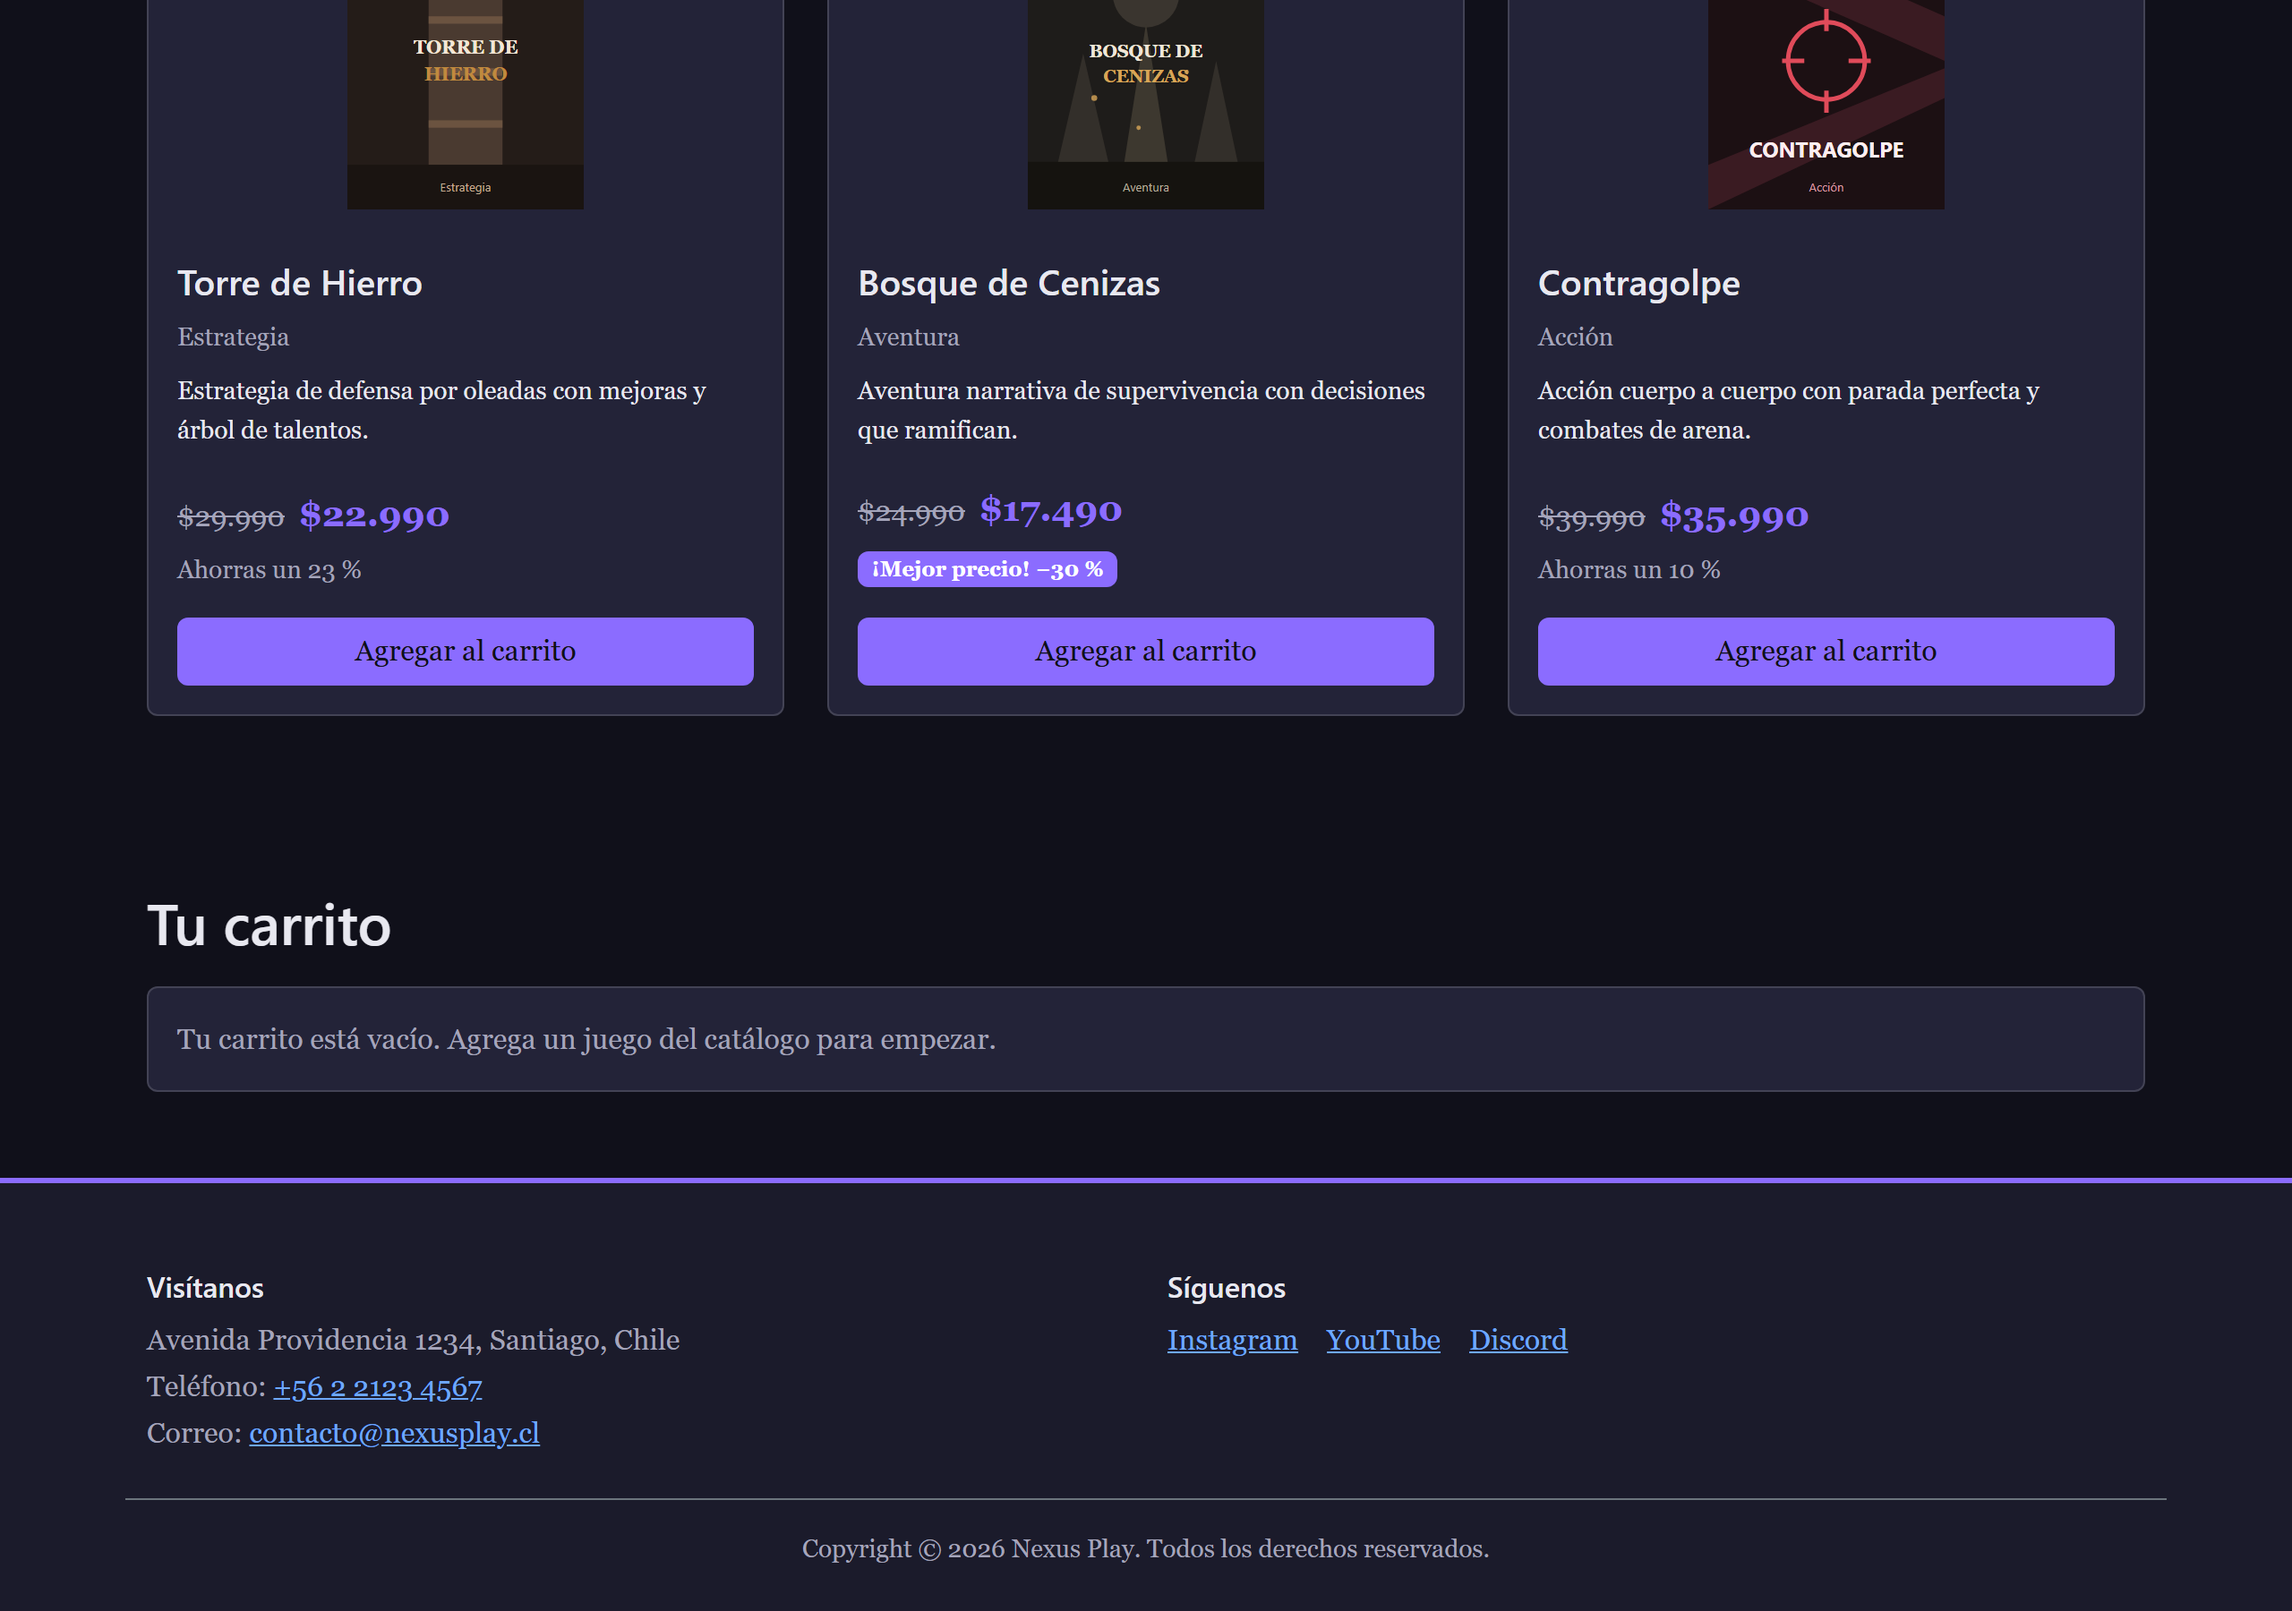
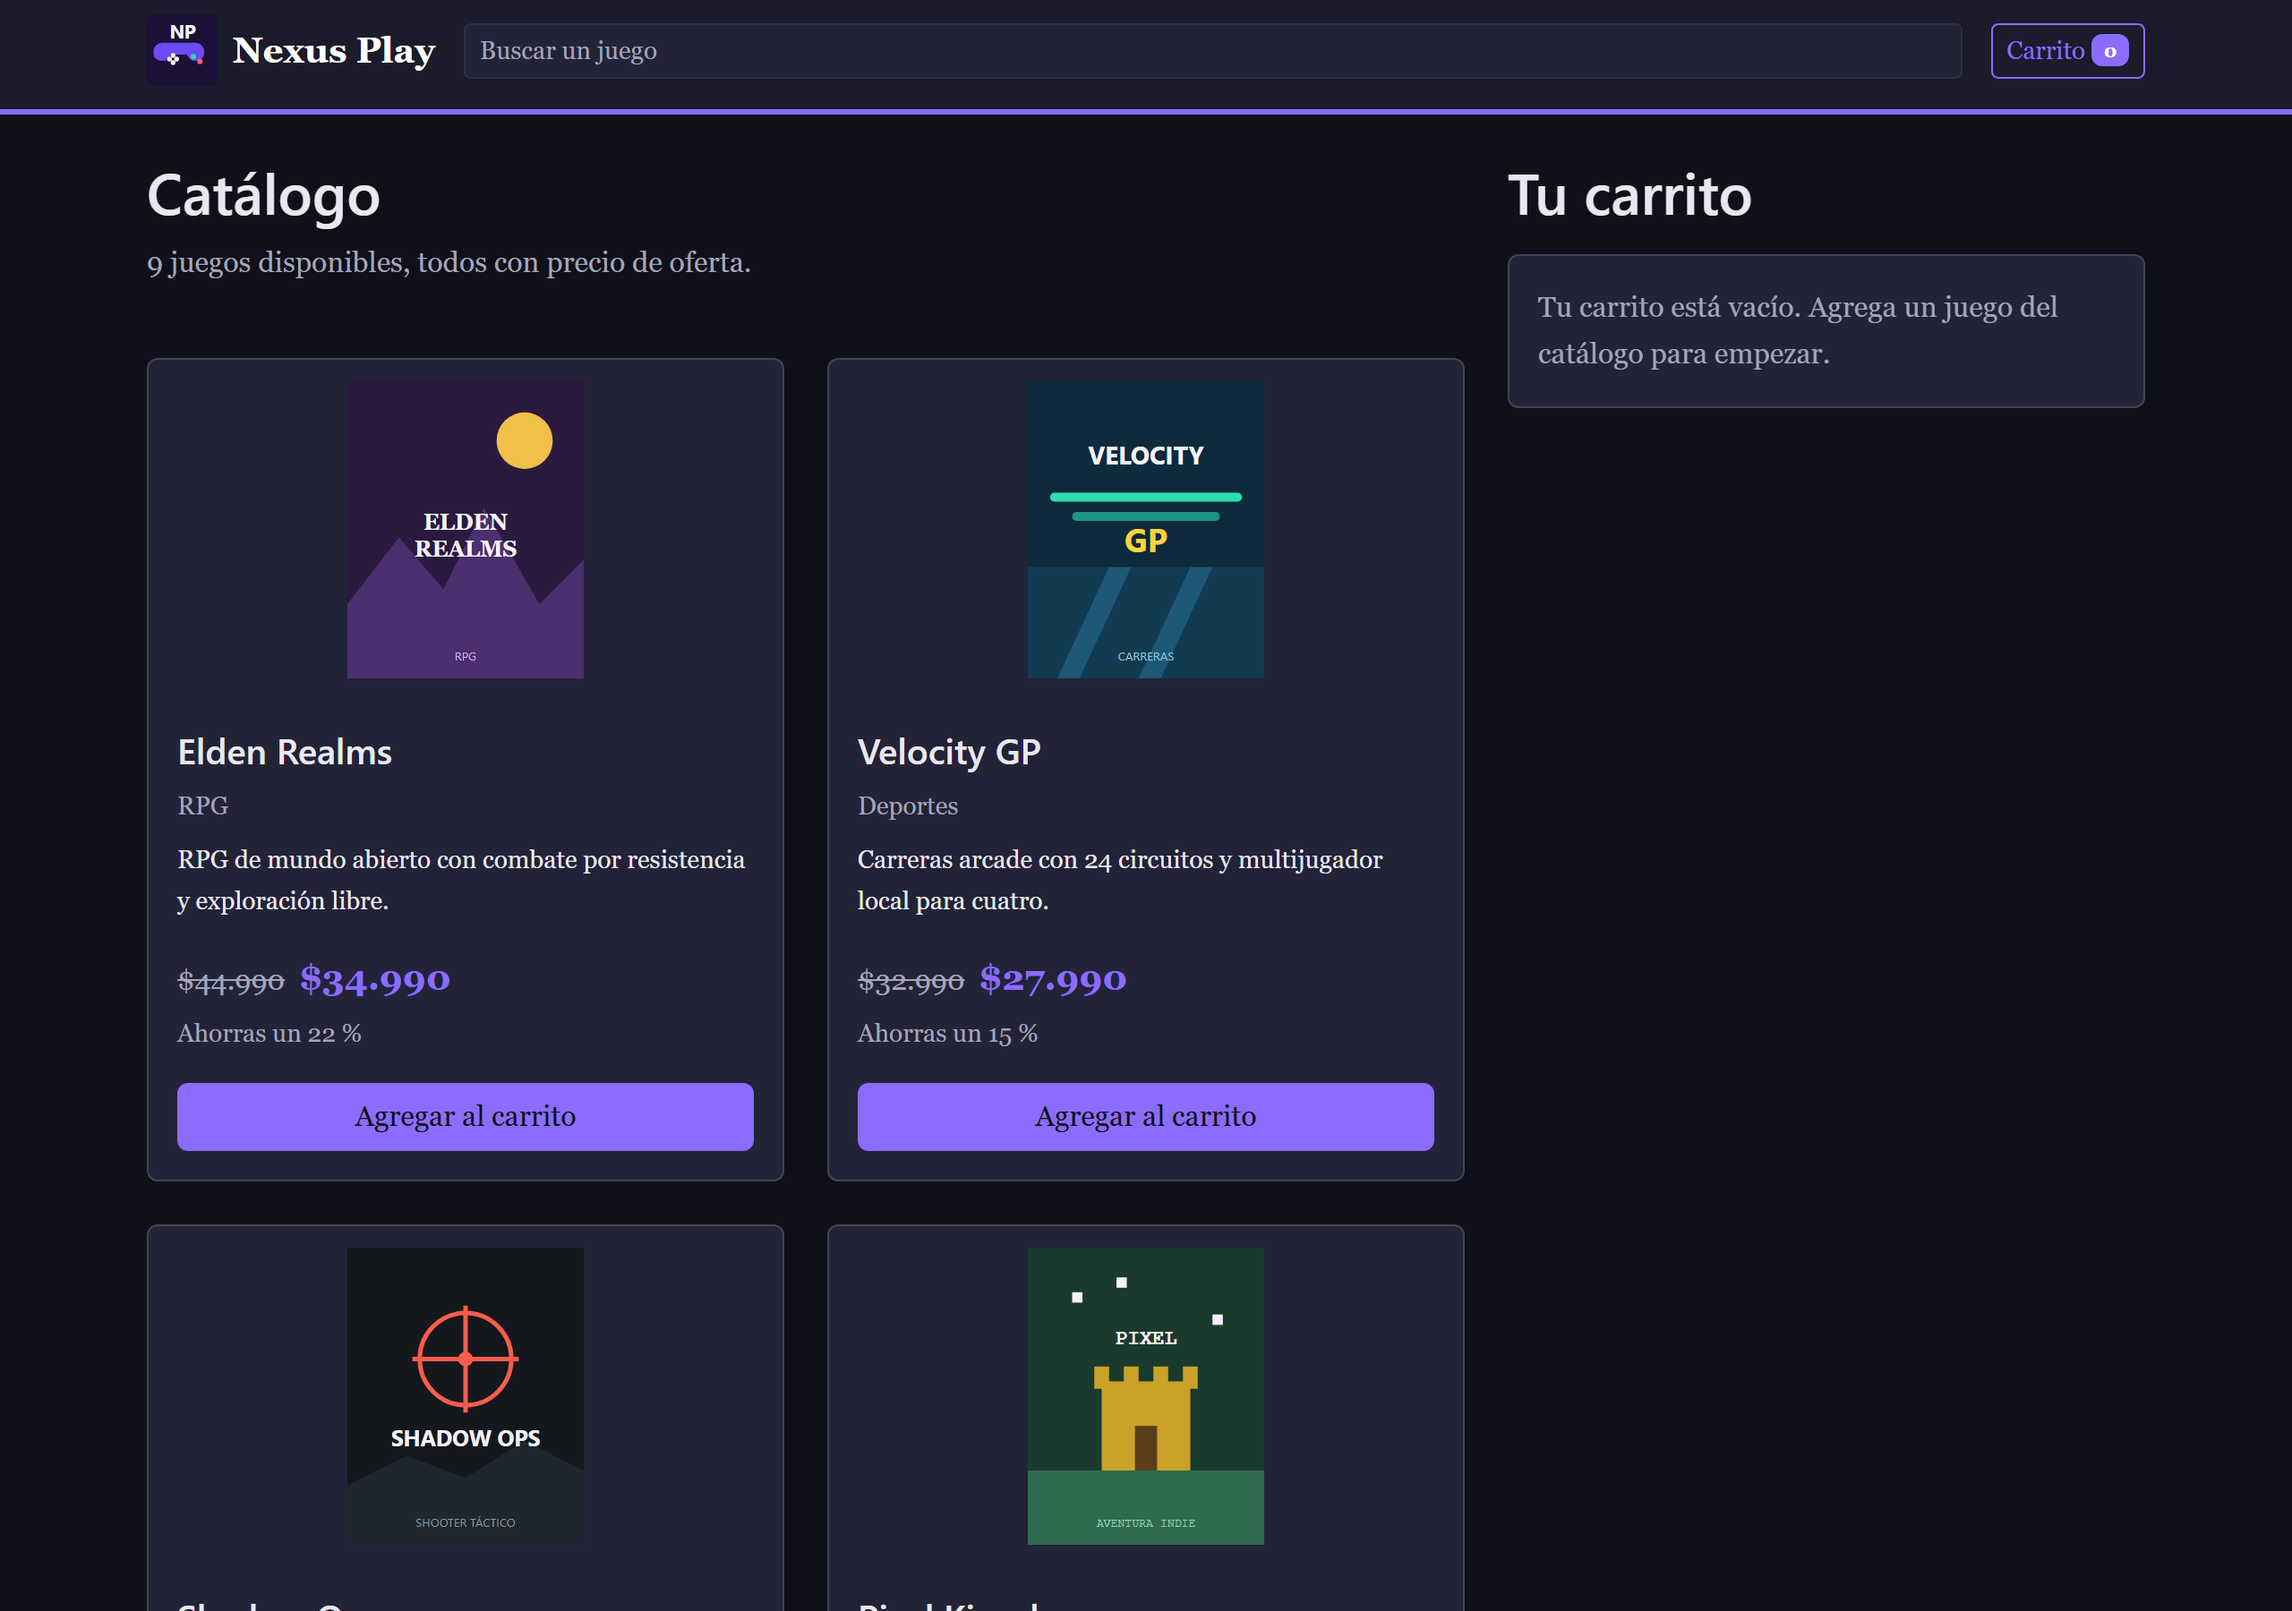
Pone el carrito en una columna lateral fija junto al catalogo
Apilados uno debajo del otro, el carrito quedaba a nueve tarjetas de
scroll y la tienda parecia solo un catalogo: el contador, el total y el
estado vacio no se veian sin buscarlos.

Desde 992 px el catalogo ocupa 8/12 y el carrito 4/12, fijo al hacer
scroll y con scroll propio si crece mas que la pantalla. Por debajo de
esa anchura se apilan y el enlace del encabezado lleva hasta el.

Las tarjetas pasan a tres por fila solo desde xxl, porque ahora viven
en una columna mas estrecha.

diff --git a/src/components/Carrito.jsx b/src/components/Carrito.jsx
@@ -23,42 +23,40 @@ function Carrito({ lineas, alQuitar, alEliminar, alVaciar }) {
     const vacio = lineas.length === 0;
 
     return (
-        <section id="carrito" className="py-5">
-            <div className="container">
-                <h2>Tu carrito</h2>
+        <section id="carrito" className="carrito-fijo">
+            <h2>Tu carrito</h2>
 
-                <div className="card mt-3">
-                    <div className="card-body">
-                        {vacio ? (
-                            <p className="mb-0 text-body-secondary" role="status">
-                                Tu carrito está vacío. Agrega un juego del
-                                catálogo para empezar.
-                            </p>
-                        ) : (
-                            <>
-                                <ul className="list-group list-group-flush">
-                                    {lineas.map((linea) => (
-                                        <LineaCarrito
-                                            key={linea.producto.id}
-                                            linea={linea}
-                                            alQuitar={alQuitar}
-                                            alEliminar={alEliminar}
-                                        />
-                                    ))}
-                                </ul>
+            <div className="card mt-3">
+                <div className="card-body">
+                    {vacio ? (
+                        <p className="mb-0 text-body-secondary" role="status">
+                            Tu carrito está vacío. Agrega un juego del catálogo
+                            para empezar.
+                        </p>
+                    ) : (
+                        <>
+                            <ul className="list-group list-group-flush">
+                                {lineas.map((linea) => (
+                                    <LineaCarrito
+                                        key={linea.producto.id}
+                                        linea={linea}
+                                        alQuitar={alQuitar}
+                                        alEliminar={alEliminar}
+                                    />
+                                ))}
+                            </ul>
 
-                                <TotalCarrito lineas={lineas} />
+                            <TotalCarrito lineas={lineas} />
 
-                                <button
-                                    type="button"
-                                    className="btn btn-outline-secondary btn-sm mt-3"
-                                    onClick={alVaciar}
-                                >
-                                    Vaciar carrito
-                                </button>
-                            </>
-                        )}
-                    </div>
+                            <button
+                                type="button"
+                                className="btn btn-outline-secondary btn-sm mt-3"
+                                onClick={alVaciar}
+                            >
+                                Vaciar carrito
+                            </button>
+                        </>
+                    )}
                 </div>
             </div>
         </section>

diff --git a/src/components/ListaProductos.jsx b/src/components/ListaProductos.jsx
@@ -23,45 +23,41 @@ function ListaProductos({ productos, busqueda, alAgregar }) {
        se muestra un aviso que cita lo que el usuario escribió. */
     if (productos.length === 0) {
         return (
-            <section id="catalogo" className="py-5">
-                <div className="container">
-                    <h2>Catálogo</h2>
-                    <p className="alert alert-secondary mt-3" role="status">
-                        No encontramos juegos que coincidan con «{busqueda}».
-                        Prueba con otro nombre.
-                    </p>
-                </div>
+            <section id="catalogo">
+                <h2>Catálogo</h2>
+                <p className="alert alert-secondary mt-3" role="status">
+                    No encontramos juegos que coincidan con «{busqueda}».
+                    Prueba con otro nombre.
+                </p>
             </section>
         );
     }
 
     return (
-        <section id="catalogo" className="py-5">
-            <div className="container">
-                <h2>Catálogo</h2>
-                <p className="text-body-secondary">
-                    {productos.length}{" "}
-                    {/* Concordancia de singular y plural: con un solo
-                        resultado, "juegos disponibles" chirría */}
-                    {productos.length === 1
-                        ? "juego disponible"
-                        : "juegos disponibles"}
-                    , todos con precio de oferta.
-                </p>
+        <section id="catalogo">
+            <h2>Catálogo</h2>
+            <p className="text-body-secondary">
+                {productos.length}{" "}
+                {/* Concordancia de singular y plural: con un solo
+                    resultado, "juegos disponibles" chirría */}
+                {productos.length === 1
+                    ? "juego disponible"
+                    : "juegos disponibles"}
+                , todos con precio de oferta.
+            </p>
 
-                <div className="row g-4 mt-1">
-                    {/* .map() recorre el listado y crea una tarjeta por
-                        producto. La prop key es obligatoria para que React
-                        identifique cada elemento entre renderizados: sin ella
-                        avisa por consola y puede reutilizar mal el DOM. */}
-                    {productos.map((producto) => (
-                        <TarjetaProducto
-                            key={producto.id}
-                            producto={producto}
-                            alAgregar={alAgregar}
-                        />
-                    ))}
-                </div>
+            <div className="row g-4 mt-1">
+                {/* .map() recorre el listado y crea una tarjeta por
+                    producto. La prop key es obligatoria para que React
+                    identifique cada elemento entre renderizados: sin ella
+                    avisa por consola y puede reutilizar mal el DOM. */}
+                {productos.map((producto) => (
+                    <TarjetaProducto
+                        key={producto.id}
+                        producto={producto}
+                        alAgregar={alAgregar}
+                    />
+                ))}
             </div>
         </section>
     );

diff --git a/src/App.jsx b/src/App.jsx
@@ -112,19 +112,30 @@ function App() {
                 <Buscador busqueda={busqueda} alBuscar={setBusqueda} />
             </Encabezado>
 
-            <main>
-                <ListaProductos
-                    productos={productosVisibles}
-                    busqueda={busqueda}
-                    alAgregar={agregarAlCarrito}
-                />
+            {/* El catálogo y el carrito van lado a lado desde 992 px, con el
+                carrito fijo al hacer scroll. Puestos uno debajo del otro, el
+                carrito quedaba a nueve tarjetas de distancia y la tienda
+                parecía solo un catálogo. Por debajo de 992 px se apilan, y
+                para llegar al carrito está el enlace del encabezado. */}
+            <main className="container py-4">
+                <div className="row g-4">
+                    <div className="col-lg-8">
+                        <ListaProductos
+                            productos={productosVisibles}
+                            busqueda={busqueda}
+                            alAgregar={agregarAlCarrito}
+                        />
+                    </div>
 
-                <Carrito
-                    lineas={lineasCarrito}
-                    alQuitar={quitarUnaUnidad}
-                    alEliminar={eliminarDelCarrito}
-                    alVaciar={vaciarCarrito}
-                />
+                    <aside className="col-lg-4">
+                        <Carrito
+                            lineas={lineasCarrito}
+                            alQuitar={quitarUnaUnidad}
+                            alEliminar={eliminarDelCarrito}
+                            alVaciar={vaciarCarrito}
+                        />
+                    </aside>
+                </div>
             </main>
 
             <PieDePagina />

diff --git a/src/index.css b/src/index.css
@@ -192,6 +192,31 @@ main section[id] {
     scroll-margin-top: clamp(4rem, 8vw, 5.5rem);
 }
 
+
+/* ============================================================
+   4. EL CARRITO COMO COLUMNA LATERAL FIJA
+
+   Desde 992 px el carrito acompana al catalogo en una columna
+   propia y se queda fijo al hacer scroll, para que el contador y el
+   total esten siempre a la vista mientras se agregan productos.
+
+   El top coincide con el alto de la barra de navegacion, que es
+   sticky: sin ese hueco el carrito se le meteria debajo.
+
+   max-height y overflow son la guarda para un carrito largo: con
+   nueve productos distintos la tarjeta supera el alto de la pantalla,
+   y sin esto el total quedaria fuera de vista, que es justo lo que
+   esta disposicion intenta evitar.
+   ============================================================ */
+@media (min-width: 992px) {
+    .carrito-fijo {
+        position: sticky;
+        top: clamp(4.5rem, 8vw, 5.5rem);
+        max-height: calc(100vh - clamp(6rem, 10vw, 7.5rem));
+        overflow-y: auto;
+    }
+}
+
 /* El buscador de la barra: min-width:0 es una guarda defensiva. En un
    contenedor flex, un elemento con min-width:auto no puede encogerse
    por debajo de su ancho natural, y el .form-control de Bootstrap

diff --git a/src/components/TarjetaProducto.jsx b/src/components/TarjetaProducto.jsx
@@ -25,8 +25,10 @@ function TarjetaProducto({ producto, alAgregar }) {
     const ahorro = calcularAhorro(producto.precio, producto.oferta);
     const destacada = esOfertaDestacada(producto.precio, producto.oferta);
 
+    /* El catálogo vive en una columna de 8/12, así que las tarjetas pasan a
+       tres por fila solo en pantallas muy anchas */
     return (
-        <article className="col-12 col-sm-6 col-lg-4">
+        <article className="col-12 col-sm-6 col-xxl-4">
             <div className="card h-100">
                 {/* 1. IMAGEN del producto */}
                 <img
